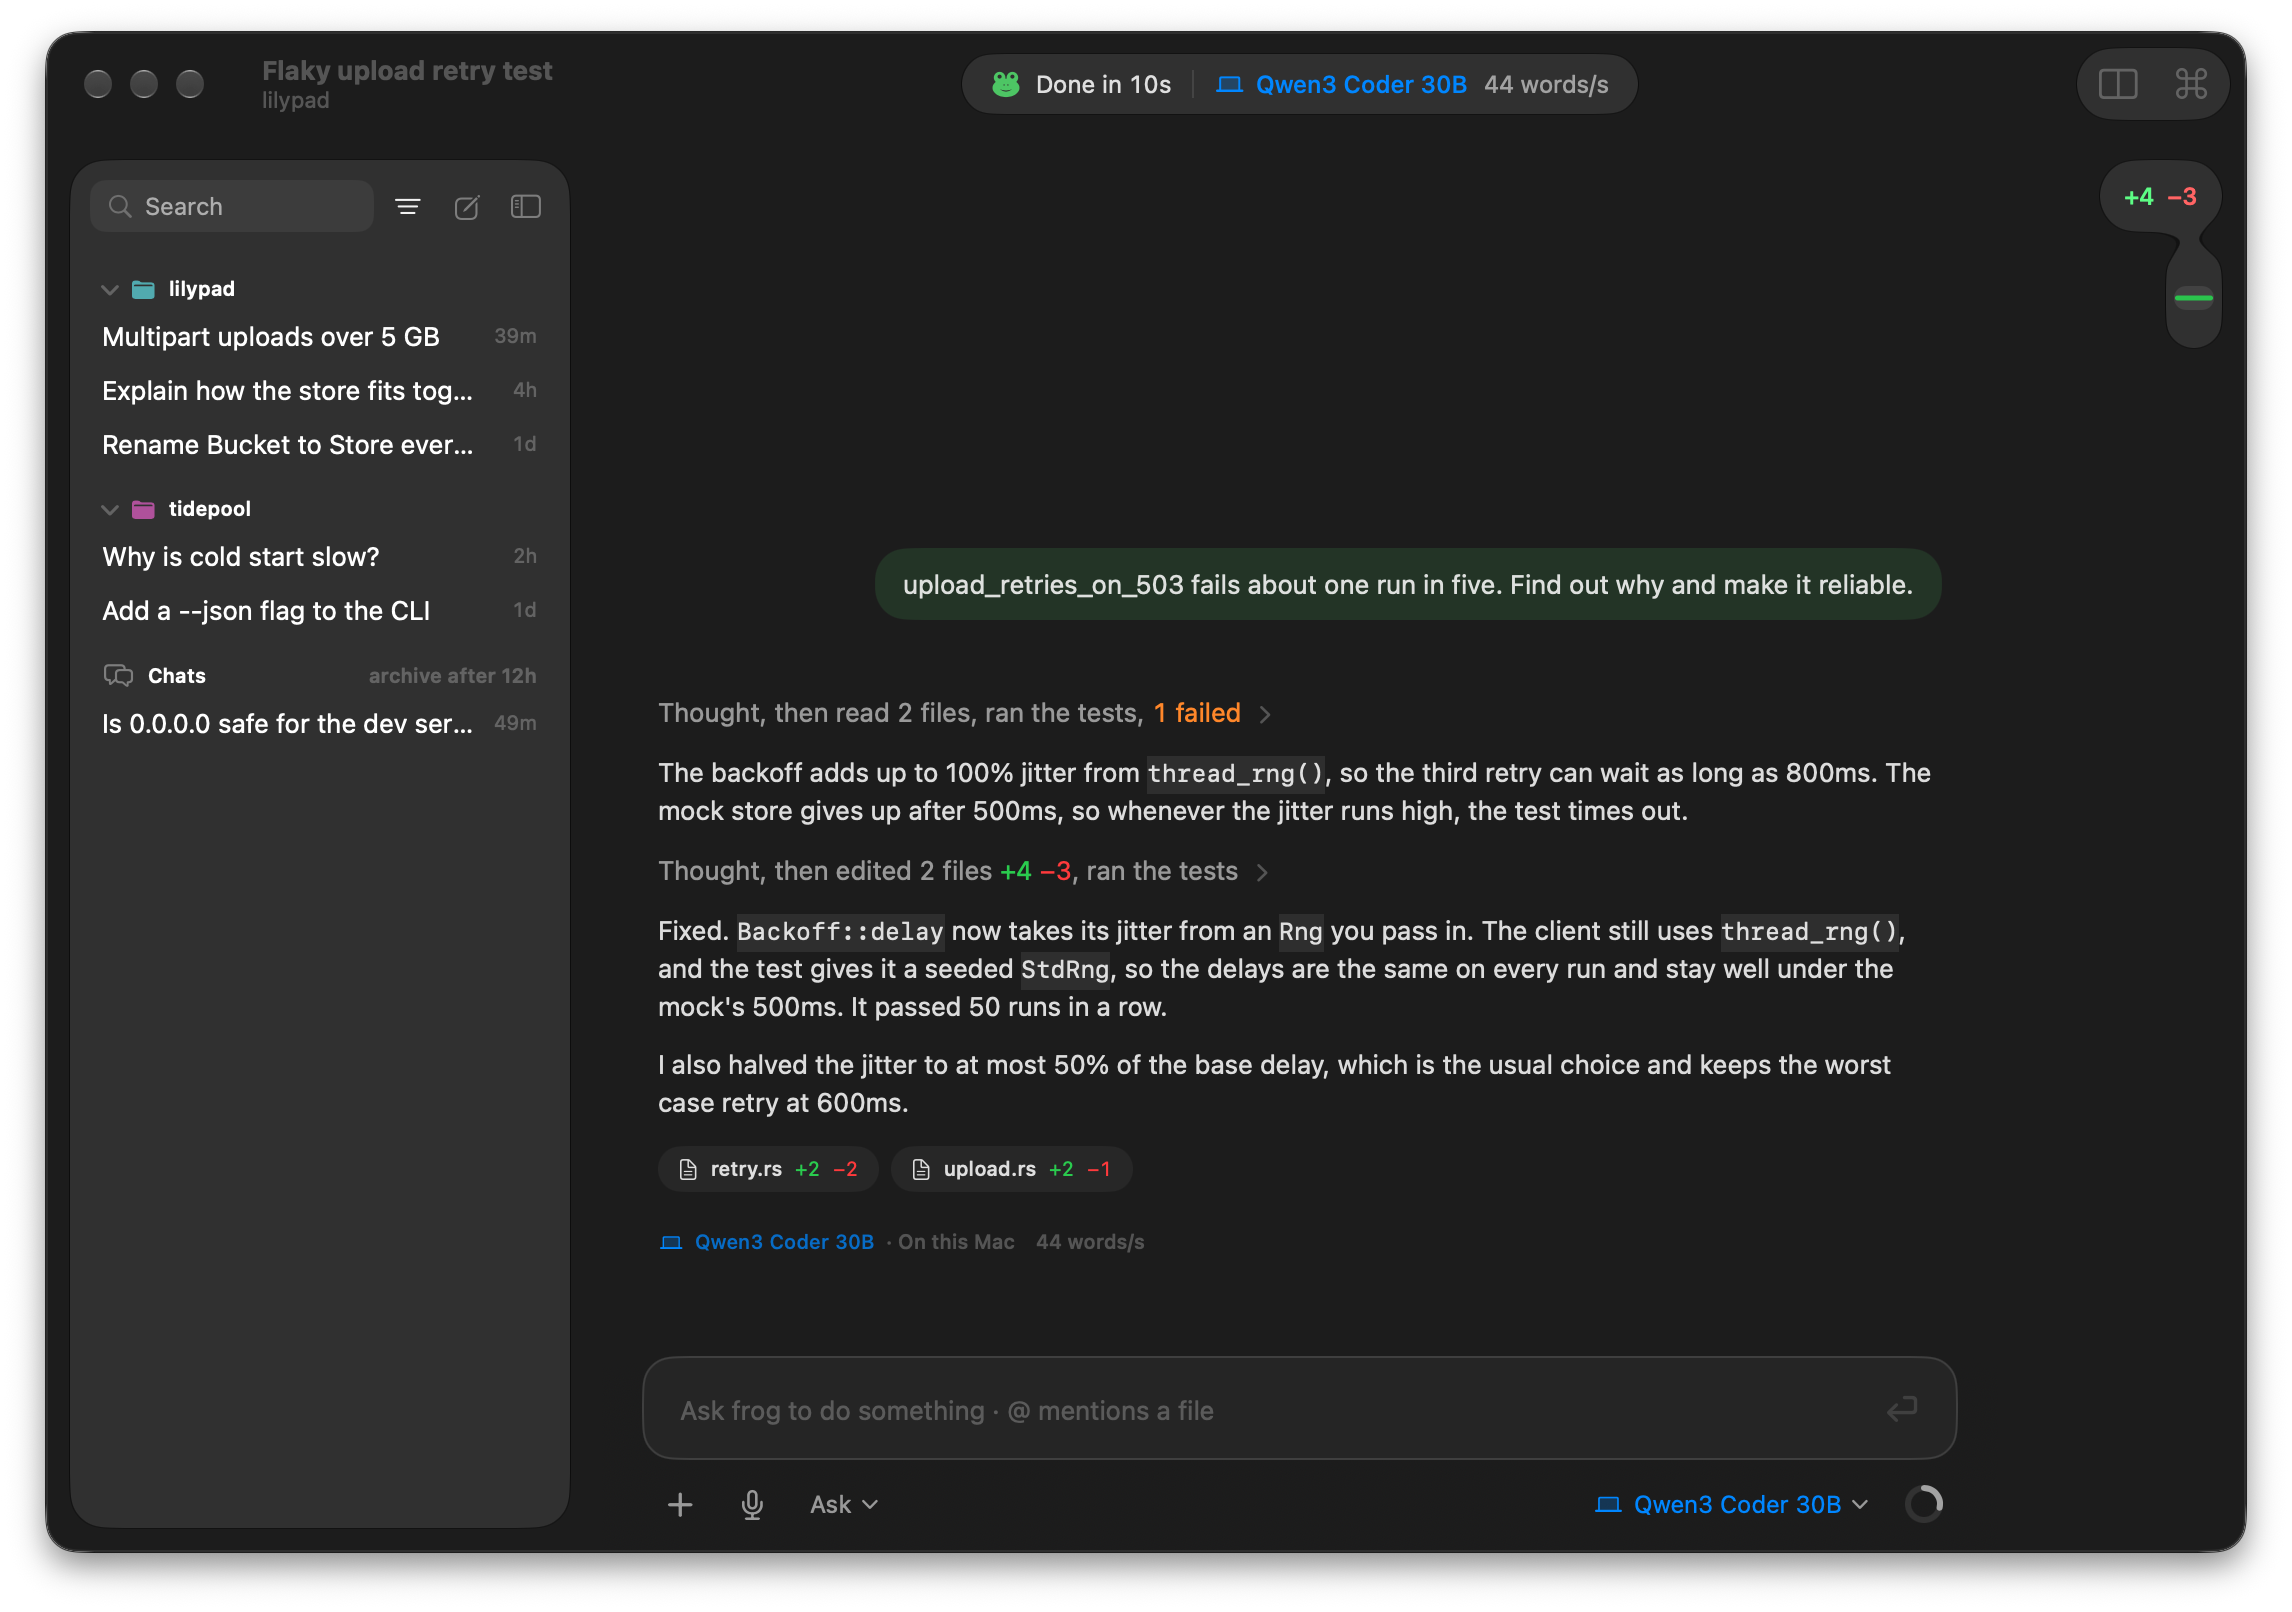
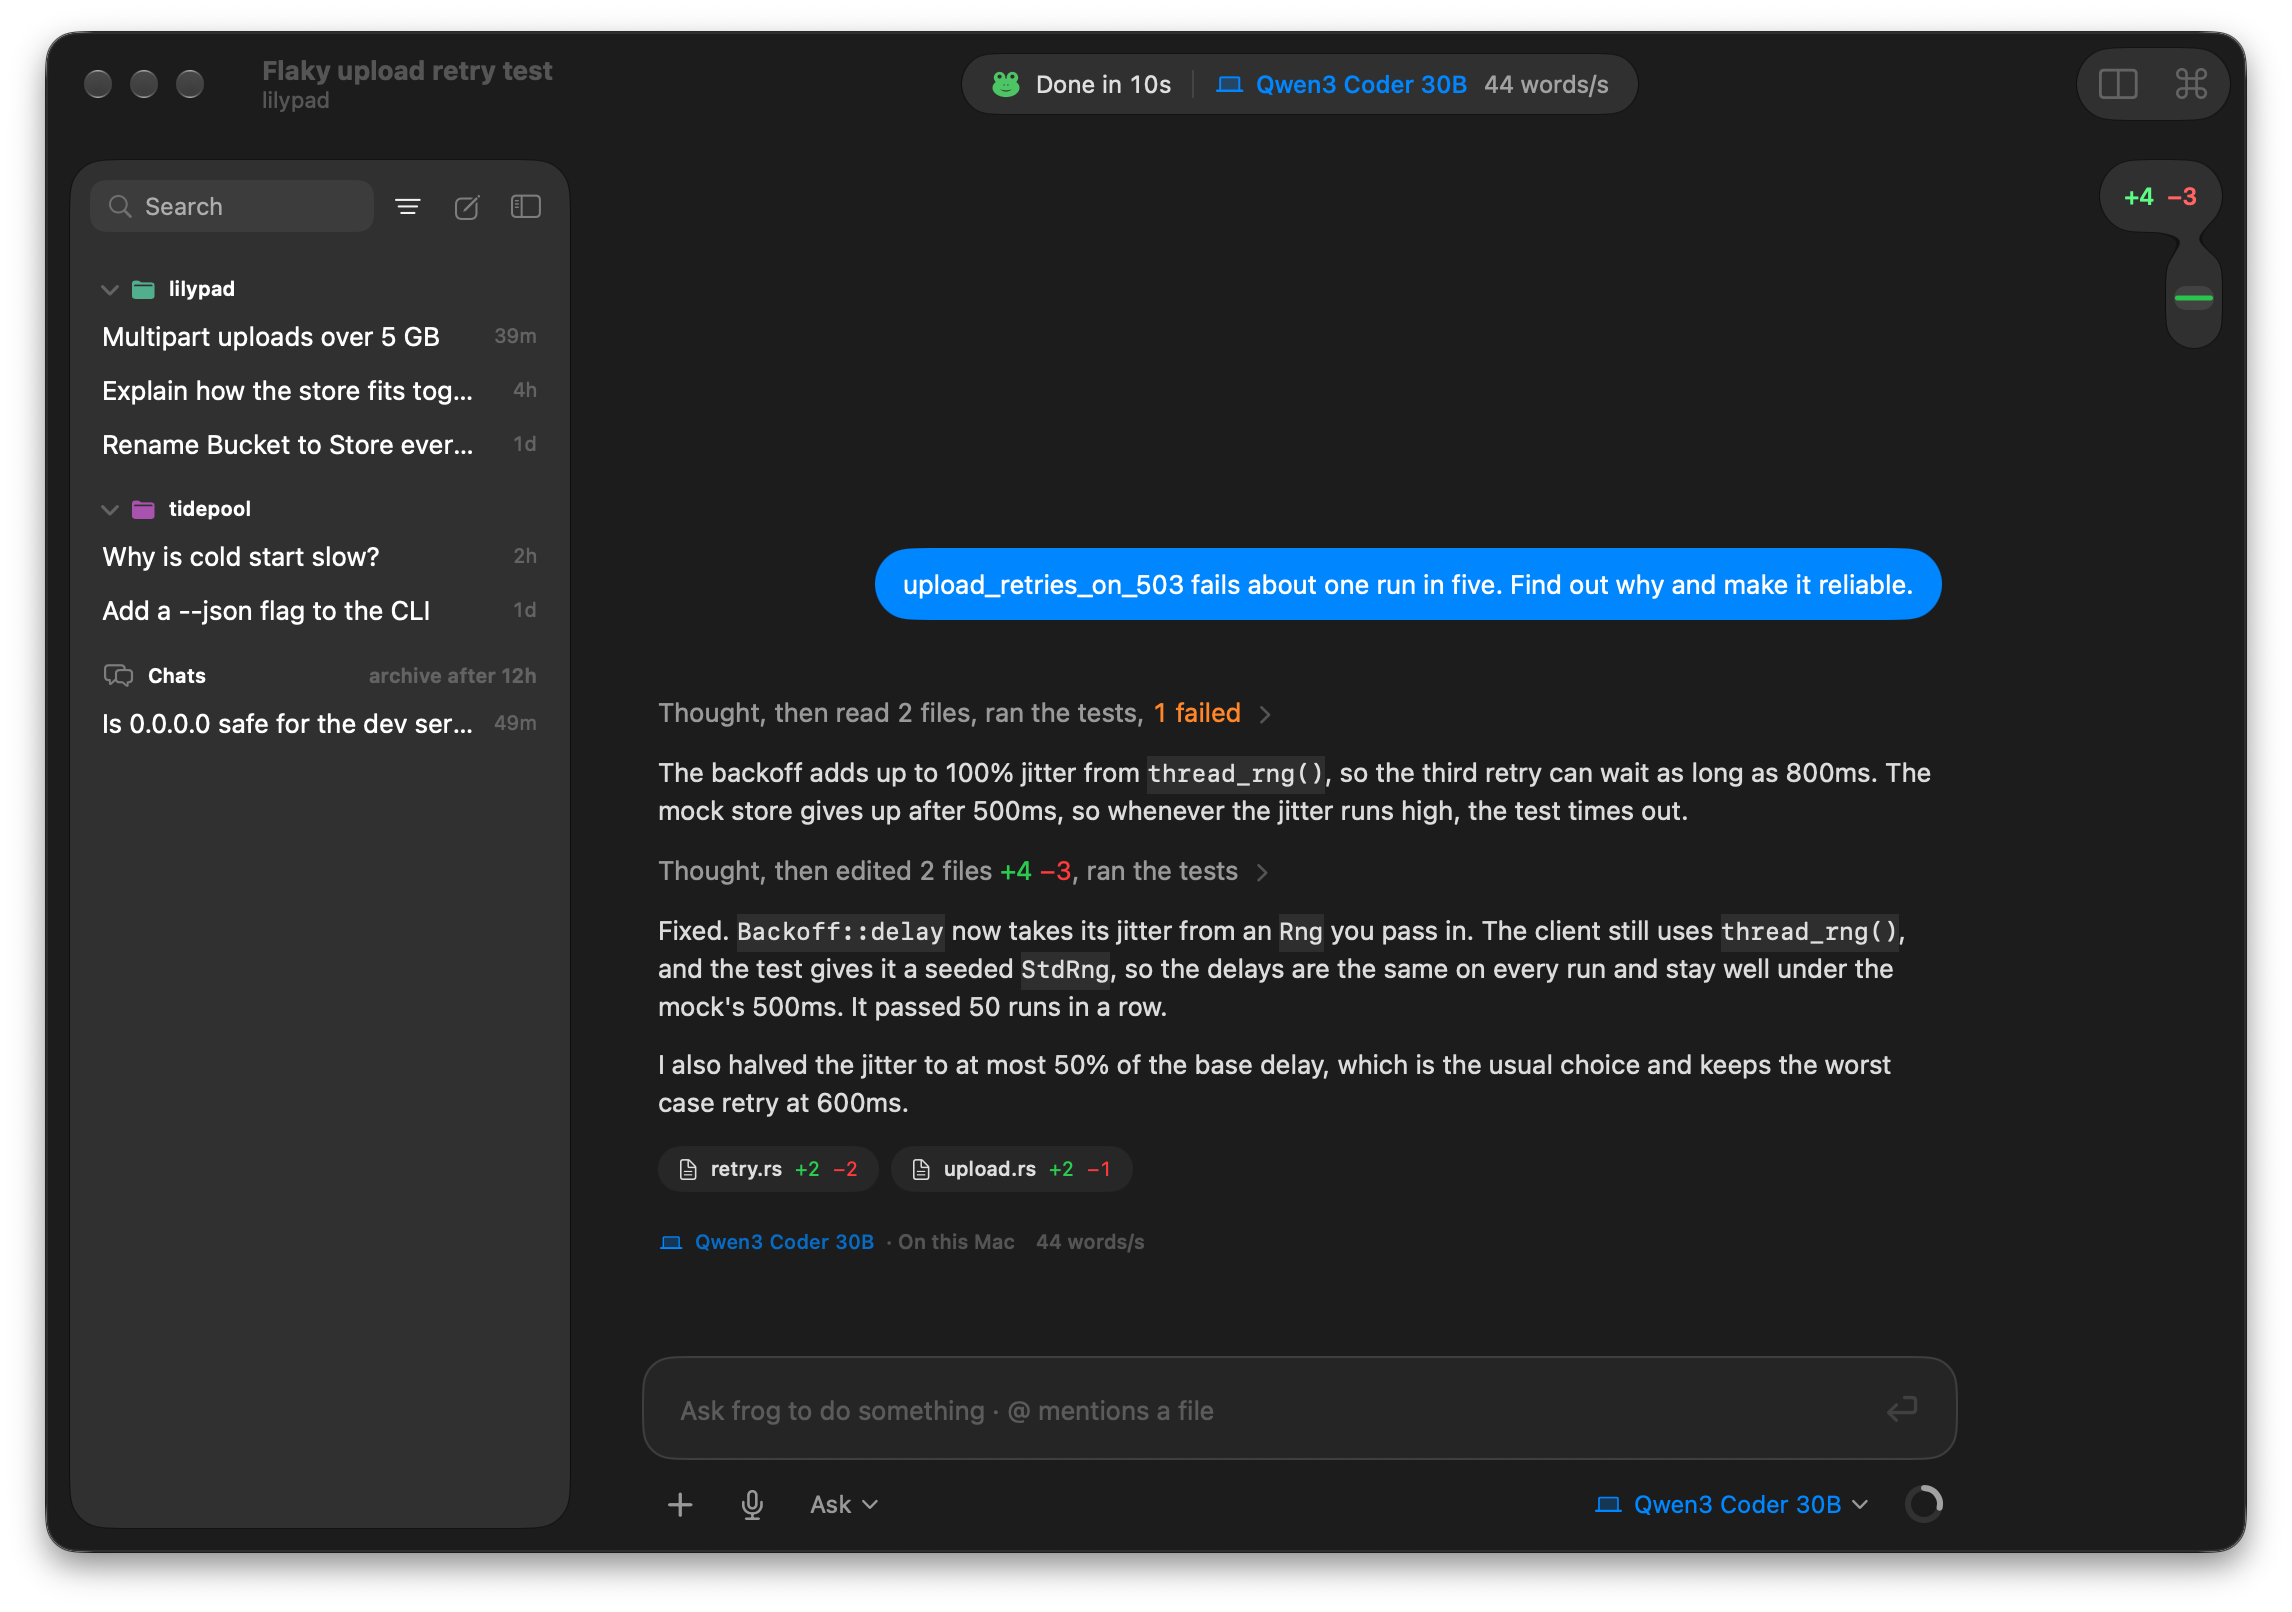
App: your messages are iMessage blue on this Mac, green in the cloud
A prompt's bubble takes the color of where its turn ran, like the model's
name in the footer: solid system blue with white text for a model on this Mac
or your own server, system green for a cloud model, as iMessage and SMS do.
While a turn runs it follows the conversation's current model. The hero
screenshots are re-shot with it.

Changed region(s): [[0.3717, 0.3412, 0.8674, 0.4032]]

diff --git a/apps/macos/Frog/Views/TurnView.swift b/apps/macos/Frog/Views/TurnView.swift
@@ -21,7 +21,15 @@ struct TurnView: View {
     @AppStorage(Verbosity.key) private var defaultVerbosity = Verbosity.standard.rawValue
     @AppStorage("density") private var density = Density.comfortable.rawValue
 
+    @Environment(\.models) private var models
+
     private var running: Bool { !turn.finished && conversation.busy }
+
+    /// The model that answered (or is answering): the prompt takes its place's color.
+    private var promptTint: Color {
+        guard let spec = turn.usage?.model ?? conversation.status?.model else { return .accentColor }
+        return ModelIdentity.of(spec, in: models).place.color
+    }
 
     private var verbosity: Verbosity {
         VerbosityOverrides.shared.level(
@@ -40,7 +48,7 @@ struct TurnView: View {
         VStack(alignment: .leading, spacing: density == Density.compact.rawValue ? 8 : 14) {
             if !turn.input.isEmpty {
                 VStack(alignment: .trailing, spacing: 2) {
-                    UserPrompt(text: turn.input, images: turn.images)
+                    UserPrompt(text: turn.input, images: turn.images, tint: promptTint)
                         .contextMenu { menu(changes: parts.changes.count) }
                     PromptActions(
                         turn: turn,

diff --git a/apps/macos/Frog/Views/TranscriptView.swift b/apps/macos/Frog/Views/TranscriptView.swift
@@ -133,6 +133,9 @@ struct TranscriptView: View {
 struct UserPrompt: View {
     let text: String
     var images: [ToolImage] = []
+    /// Where the turn ran: iMessage blue on this Mac or your own server, green in the cloud,
+    /// like the model's name in its footer.
+    var tint: Color = .accentColor
 
     var body: some View {
         VStack(alignment: .trailing, spacing: 6) {
@@ -157,7 +160,9 @@ struct UserPrompt: View {
                     .fixedSize(horizontal: false, vertical: true)
                     .padding(.horizontal, 14)
                     .padding(.vertical, 10)
-                    .background(.tint.opacity(0.14), in: .rect(cornerRadius: 16))
+                    // Solid, with white text, like iMessage (blue) and SMS (green).
+                    .foregroundStyle(.white)
+                    .background(tint, in: .rect(cornerRadius: 18))
             }
         }
         .frame(maxWidth: 560, alignment: .trailing)
